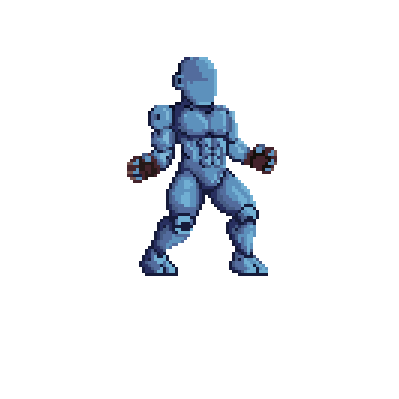
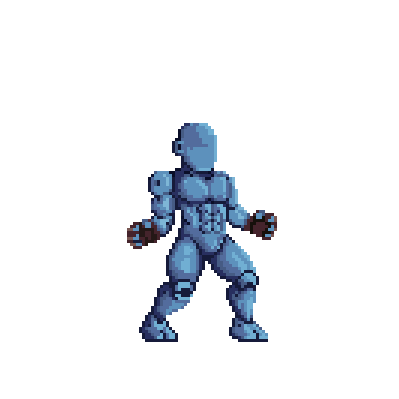
Fix texture mapping

Changed region(s): [[0.3008, 0.1203, 0.6917, 0.8722]]

diff --git a/Assets/Scripts/Arcadian.cs b/Assets/Scripts/Arcadian.cs
@@ -48,18 +48,22 @@ public class Arcadian : MonoBehaviour
 
 		UnityEngine.Color[] rPixels = result.GetPixels(0);
 		UnityEngine.Color[] sPixels = source.GetPixels(0);
+		int sPx = 0;
+
+		int xMin = int.MaxValue;
+		int yMin = int.MaxValue;
+		int xMax = -1;
+		int yMax = -1;
 
 		Rect dstRect = new Rect(
 			partData.Position.x,
-			partData.Position.y,
+			(result.height - partData.Position.y) - source.height,
 			source.width,
 			source.height
 		);
 
 		Debug.Log($"{partData.Name} + rect = {dstRect.x}, {dstRect.y}, {dstRect.xMax}, {dstRect.yMax}");
 		Debug.Log($"{source.width} x {source.height}");
-
-		int sPx = 0;
 
 		for (int px = 0; px < rPixels.Length; px++)
 		{
@@ -70,12 +74,19 @@ public class Arcadian : MonoBehaviour
 			{
 				rPixels[px] = sPixels[sPx];
 				sPx++;
+
+				if (x < xMin) xMin = x;
+				else if (x > xMax) xMax = x;
+				if (y < yMin) yMin = y;
+				else if (y > yMax) yMax = y;
 			}
 			else
 			{
 				rPixels[px] = UnityEngine.Color.clear;
 			}
 		}
+
+		Debug.Log($"{partData.Name} min = {xMin},{yMin} | maX = {xMax},{yMax}");
 
 		result.SetPixels(rPixels, 0);
 		result.Apply();
